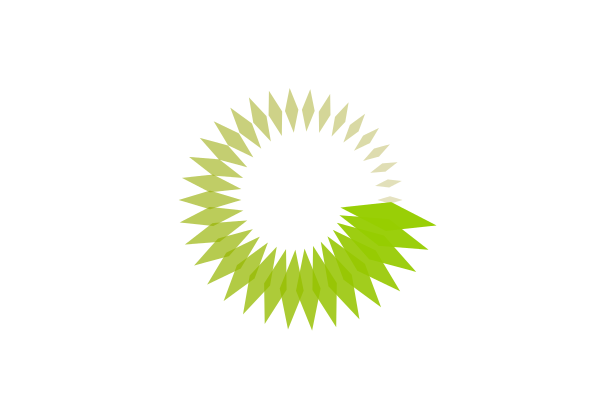
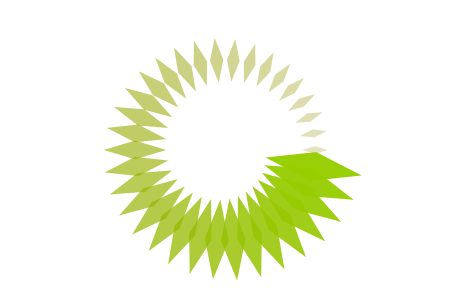
Adding lodash extensions and simple setup.

Changed region(s): [[0.2178, 0.12, 0.8089, 0.93]]

diff --git a/vec/tests/extensions-tests.js b/vec/tests/extensions-tests.js
@@ -1,0 +1,81 @@
+var chai   = require('chai'),
+    expect = chai.expect,
+    _      = require('lodash');
+require('../src/extensions');
+
+
+describe('With the extensions function', function() {
+
+    it("alpha is found.", function() {
+        expect(_.range(1,5).alpha(9)).to.include.members([9]);
+    });
+
+    it("red is set.", function() {
+        expect(_.range(1,5).red(9)).to.include.members([9]);
+    });
+
+    it("green is set.", function() {
+        expect(_.range(1,5).green(9)).to.include.members([9]);
+    });
+
+    it("blue is set.", function() {
+        expect(_.range(1,5).blue(9)).to.include.members([9]);
+    });
+
+    it("red is found.", function() {
+        expect(_.range(1,5).red()).equals(1);
+    });
+
+    it("green is found.", function() {
+        expect(_.range(1,5).green()).equals(2);
+    });
+
+    it("blue is found.", function() {
+        expect(_.range(1,5).blue()).equals(3);
+    });
+
+    it("alpha is found.", function() {
+        expect(_.range(1,5).alpha()).equals(4);
+    });
+
+    it("converts hex w/o alpha and finds red.", function() {
+        expect('#112233'.toColorArray().red()).equals(parseInt('11',16));
+    });
+
+    it("converts hex w/ alpha and finds red.", function() {
+        expect('#11223344'.toColorArray().red()).equals(parseInt('11',16));
+    });
+
+    it("converts hex w/o alpha and finds green.", function() {
+        expect('#112233'.toColorArray().green()).equals(parseInt('22',16));
+    });
+
+    it("converts hex w/ alpha and finds green.", function() {
+        expect('#11223344'.toColorArray().green()).equals(parseInt('22',16));
+    });
+
+    it("converts hex w/o alpha and finds blue.", function() {
+        expect('#112233'.toColorArray().blue()).equals(parseInt('33',16));
+    });
+
+    it("converts hex w/ alpha and finds blue.", function() {
+        expect('#11223344'.toColorArray().blue()).equals(parseInt('33',16));
+    });
+
+    it("converts hex w/o alpha and finds alpha.", function() {
+        expect('#112233'.toColorArray().alpha()).equals(0);
+    });
+
+    it("converts hex w/ alpha and finds alpha.", function() {
+        expect('#11223344'.toColorArray().alpha()).equals(parseInt('44',16));
+    });
+
+    it("converts array.length 3 to rgb().", function() {
+        expect([0,0,0].toColor()).equals('rgb(0,0,0)');
+    });
+
+    it("converts array.length 3 to rgb().", function() {
+        expect([0,0,0,0].toColor()).equals('rgba(0,0,0,0)');
+    });
+
+});

diff --git a/canvas/drawings/vlade.js b/canvas/drawings/vlade.js
@@ -1,16 +1,14 @@
 var vs           = require('./vector-stream/src'),
-    Harness      = vs.Harness,
-    Renderer     = vs.Renderer,
-    VectorStream = vs.VectorStream,
     Vec          = vs.Vec,
+    SimpleSetup  = vs.SimpleSetup,
     _            = require('lodash');
 
 require('./vector-stream/src/extensions');
 
 module.exports = function() {
 
-    var width = 600;
-    var height = 400;
+    var width = 450;
+    var height = 300;
     var _2PI = Math.PI * 2;
     var steps = 34;
     var base_color = [150,0,0,1];
@@ -18,16 +16,13 @@ module.exports = function() {
     var horizontal_size = Vec(50,0);
     var vertical_size = Vec(0,15);
 
-    var harness = new Harness({
+    var vs = SimpleSetup({
         imageName:'vlade.png',
         width: width,
         height: height
     });
 
-    var r = new Renderer(harness.getContext());
-    var vs = new VectorStream(r);
-
-    function toCanvasCenter(vs, w, h) {
+    function toCanvasCenter(w, h) {
         return [
             {method:'translate', args:[w/2, h/2]},
             {method:'scale', args:[1,-1]}
@@ -104,7 +99,7 @@ module.exports = function() {
 
     vs.write(
         clear(width, height),
-        toCanvasCenter(vs, width, height),
+        toCanvasCenter(width, height),
         selectMany());
     vs.flush();
 

diff --git a/vec/src/lodash-mixins.js b/vec/src/lodash-mixins.js
@@ -1,0 +1,41 @@
+
+
+
+module.exports = function(_) {
+
+    /**
+     * Takes the data provided in parallel arrays and passes those
+     * values to the provided callback until one of the arrays no
+     * longer contains items to provide.
+     *
+     * zipMerge([data, ...], [callback]);
+     */
+    _.mixin({
+        zipMerge: function() {
+            var args = Array.prototype.slice.call(arguments);
+            var arrays = _.filter(args, _.isArray);
+            var min= _.min(_.map(arrays, function(a) { return a.length; }));
+            var merger = args[args.length - 1];
+
+            if (_.isFunction(merger)) {
+                var rs = [];
+                for (var i = 0; i < min; i++) {
+                    var vals = _.map(arrays, function(ar) { return ar[i]});
+                    var item = merger.apply(null, vals)
+                    rs.push(item);
+                }
+                return rs;
+            } else {
+                var rs = [];
+                for (var i = 0; i < min; i++) {
+                    var vals = _.map(arrays, function(ar) { return ar[i]});
+                    rs.push(vals);
+                }
+                return rs;
+            }
+
+        }
+    });
+
+    return _;
+};

diff --git a/vec/tests/lodash-extension-tests.js b/vec/tests/lodash-extension-tests.js
@@ -1,0 +1,35 @@
+var chai = require('chai'),
+    buffer = require('../src/buffer'),
+    expect = chai.expect,
+    _ = require('lodash'),
+    _ = require('../src/lodash-mixins')(_);
+
+describe('Lodash mixin', function() {
+
+    describe('zipMerge', function() {
+
+        it('should exist.', function() {
+            expect(_.zipMerge).exists
+        })
+
+        it("should merge 2 arrays.", function() {
+            var a = _.zipMerge([1,2], [3,4]);
+
+            expect(a).to.have.length(2);
+            expect(a[0]).to.include.members([1,3]);
+            expect(a[1]).to.include.members([2,4]);
+        });
+
+        it("should merge 2 arrays with merge fn.", function() {
+            var a = _.zipMerge([1,2], [3,4], function(a,b) {
+                return { a:a, b:b };
+            });
+
+            expect(a).to.have.length(2);
+            expect(a[0].a).equals(1);
+            expect(a[0].b).equals(3);
+            expect(a[1].a).equals(2);
+            expect(a[1].b).equals(4);
+        });
+    });
+});

diff --git a/canvas/drawings/vector-stream/src/extensions.js b/canvas/drawings/vector-stream/src/extensions.js
@@ -2,9 +2,13 @@
  ******************************************************************************/
 String.prototype.toColorArray = function() {
 
-    var x = /#([a-gA-G0-9]{2})([a-gA-G0-9]{2})([a-gA-G0-9]{2})/;
+    var x = /#([a-gA-G0-9]{2})([a-gA-G0-9]{2})([a-gA-G0-9]{2})([a-gA-G0-9]{2})?/;
 
     var a = x.exec( this.toString() ).slice(1);
+
+    if (!a[3]) {
+        a.pop()
+    }
 
     for (var i = 0; i < a.length; i++) {
         a[i] = parseInt( a[i], 16 );
@@ -65,6 +69,6 @@ Array.prototype.blue = function() {
 Array.prototype.alpha = function() {
     switch (arguments.length) {
         case 1: this[3] = arguments[0]; return this;
-        case 0: return this[3];
+        case 0: return this.length == 3 ? 0 : this[3];
     }
 };

diff --git a/vec/src/extensions.js b/vec/src/extensions.js
@@ -2,9 +2,13 @@
  ******************************************************************************/
 String.prototype.toColorArray = function() {
 
-    var x = /#([a-gA-G0-9]{2})([a-gA-G0-9]{2})([a-gA-G0-9]{2})/;
+    var x = /#([a-gA-G0-9]{2})([a-gA-G0-9]{2})([a-gA-G0-9]{2})([a-gA-G0-9]{2})?/;
 
     var a = x.exec( this.toString() ).slice(1);
+
+    if (!a[3]) {
+        a.pop()
+    }
 
     for (var i = 0; i < a.length; i++) {
         a[i] = parseInt( a[i], 16 );
@@ -65,6 +69,6 @@ Array.prototype.blue = function() {
 Array.prototype.alpha = function() {
     switch (arguments.length) {
         case 1: this[3] = arguments[0]; return this;
-        case 0: return this[3];
+        case 0: return this.length == 3 ? 0 : this[3];
     }
 };

diff --git a/canvas/drawings/vector-stream/src/simple-setup.js b/canvas/drawings/vector-stream/src/simple-setup.js
@@ -1,0 +1,14 @@
+var Harness = require('./harness'),
+    VectorStream = require('./vector-stream'),
+    Renderer = require('./renderer'),
+    _ = require('lodash');
+
+
+module.exports = function(options) {
+
+    var h = new Harness(options);
+    var r = new Renderer(h.getContext());
+    var vs = new VectorStream(r);
+
+    return vs;
+};

diff --git a/vec/src/simple-setup.js b/vec/src/simple-setup.js
@@ -1,0 +1,14 @@
+var Harness = require('./harness'),
+    VectorStream = require('./vector-stream'),
+    Renderer = require('./renderer'),
+    _ = require('lodash');
+
+
+module.exports = function(options) {
+
+    var h = new Harness(options);
+    var r = new Renderer(h.getContext());
+    var vs = new VectorStream(r);
+
+    return vs;
+};

diff --git a/canvas/drawings/vector-stream/src/index.js b/canvas/drawings/vector-stream/src/index.js
@@ -5,5 +5,6 @@ module.exports = {
     Harness      : require('./harness'),
     Renderer     : require('./renderer'),
     VectorStream : require('./vector-stream'),
-    Vec          : require('./vec')
+    Vec          : require('./vec'),
+    SimpleSetup  : require('./simple-setup')
 };

diff --git a/vec/src/index.js b/vec/src/index.js
@@ -5,5 +5,6 @@ module.exports = {
     Harness      : require('./harness'),
     Renderer     : require('./renderer'),
     VectorStream : require('./vector-stream'),
-    Vec          : require('./vec')
+    Vec          : require('./vec'),
+    SimpleSetup  : require('./simple-setup')
 };
